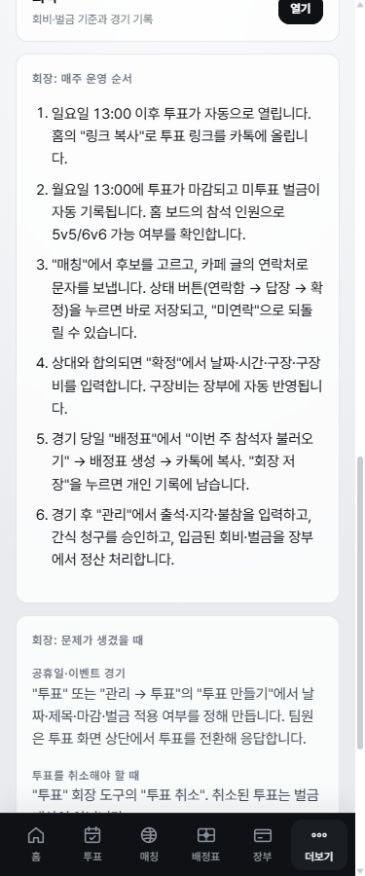
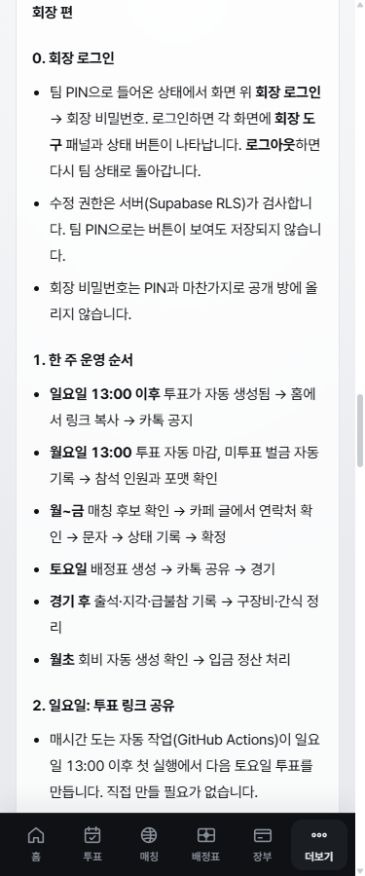
[014] 가이드 문서 렌더링과 마크다운 확장 반영

diff --git a/help.html b/help.html
@@ -5,76 +5,45 @@
   <meta name="viewport" content="width=device-width, initial-scale=1">
   <title>도움말 · FC EXICAN</title>
   <link rel="stylesheet" href="https://cdn.jsdelivr.net/gh/orioncactus/pretendard@v1.3.9/dist/web/variable/pretendardvariable-dynamic-subset.min.css">
-  <link rel="stylesheet" href="styles.css?v=20261016d">
+  <link rel="stylesheet" href="styles.css?v=20261016e">
 </head>
 <body class="rollout-page">
   <h1>도움말</h1>
 
   <main class="help-page page-grid">
-    <section class="card" aria-labelledby="help-start-title">
-      <h2 id="help-start-title">처음 한 번만</h2>
-      <ol>
-        <li>회장에게 받은 팀 PIN을 입력합니다. 한 번 입력하면 이 기기에서는 다시 묻지 않습니다.</li>
-        <li>투표 화면에서 내 이름을 선택합니다. 이름은 이 기기에 저장되며, 잘못 골랐으면 "변경"을 누릅니다.</li>
-        <li>카카오톡 안에서 열어도 되지만, 홈 화면에 추가해 두면 더 편합니다(브라우저 메뉴 → 홈 화면에 추가).</li>
-      </ol>
-    </section>
-
-    <section class="card" aria-labelledby="help-week-title">
-      <h2 id="help-week-title">매주 할 일(팀원)</h2>
-      <ol>
-        <li>일요일 오후 투표가 열리면 "투표"에서 참석 또는 불참을 누릅니다. 마감은 월요일 13:00이고, 마감 전에는 바꿀 수 있습니다.</li>
-        <li>마감까지 투표하지 않으면 회칙에 따라 벌금 5,000원이 장부에 자동으로 기록됩니다.</li>
-        <li>"매칭"에서 이번 주 후보를 보고 마음에 드는 곳에 추천(엄지)을 누릅니다. 확정된 매치는 홈 보드에 표시됩니다.</li>
-        <li>경기 당일 배정표는 "배정표"에서 확인하거나 회장이 카톡으로 보내 줍니다.</li>
-        <li>간식을 대신 샀다면 "장부 → 간식 청구"에 금액과 내용을 올립니다. 회장이 승인하면 장부에 반영됩니다.</li>
-        <li>내 회비·벌금·납부 현황은 "더보기 → 내 현황"에서 봅니다. 미납이 있으면 숫자 옆에 점이 켜집니다.</li>
-      </ol>
-    </section>
-
-    <nav class="rows page-wide" aria-labelledby="help-screens-title">
-      <h2 id="help-screens-title" class="row">화면 안내</h2>
-      <a class="row" href="index.html"><span class="row-main"><span class="row-label">홈</span><span class="row-sub">이번 주 D-day, 투표·매치 상태, 확정 매치 한눈에</span></span><span class="row-end"><span class="row-action">열기</span></span></a>
-      <a class="row" href="vote.html"><span class="row-main"><span class="row-label">투표</span><span class="row-sub">이번 주 참석/불참, 특별 매치 투표 전환</span></span><span class="row-end"><span class="row-action">열기</span></span></a>
-      <a class="row" href="matches.html"><span class="row-main"><span class="row-label">매칭</span><span class="row-sub">모두의풋살 카페에서 모은 토요일 오전 후보와 추천</span></span><span class="row-end"><span class="row-action">열기</span></span></a>
-      <a class="row" href="rotation.html"><span class="row-main"><span class="row-label">배정표</span><span class="row-sub">참석자로 키퍼·휴식 자동 배정, 카톡 복사</span></span><span class="row-end"><span class="row-action">열기</span></span></a>
-      <a class="row" href="ledger.html"><span class="row-main"><span class="row-label">장부</span><span class="row-sub">팀 잔액, 이번 달 회비·벌금, 간식 청구</span></span><span class="row-end"><span class="row-action">열기</span></span></a>
-      <a class="row" href="member.html"><span class="row-main"><span class="row-label">내 현황</span><span class="row-sub">내 납부·벌금·참석률·키퍼 기록</span></span><span class="row-end"><span class="row-action">열기</span></span></a>
-      <a class="row" href="rules.html"><span class="row-main"><span class="row-label">회칙</span><span class="row-sub">회비·벌금 기준과 경기 기록</span></span><span class="row-end"><span class="row-action">열기</span></span></a>
+    <nav class="rows page-wide" aria-label="바로가기">
+      <a class="row" href="#팀원-편"><span class="row-main"><span class="row-label">팀원 편</span><span class="row-sub">처음 설정, 투표, 추천, 간식 청구, 내 현황</span></span><span class="row-end"><span class="row-action">이동</span></span></a>
+      <a class="row" href="#회장-편"><span class="row-main"><span class="row-label">회장 편</span><span class="row-sub">주간 운영, 매칭, 배정표, 출석·벌금, 정산</span></span><span class="row-end"><span class="row-action">이동</span></span></a>
     </nav>
 
-    <section class="card" aria-labelledby="help-president-title">
-      <h2 id="help-president-title">회장: 매주 운영 순서</h2>
-      <ol>
-        <li>일요일 13:00 이후 투표가 자동으로 열립니다. 홈의 "링크 복사"로 투표 링크를 카톡에 올립니다.</li>
-        <li>월요일 13:00에 투표가 마감되고 미투표 벌금이 자동 기록됩니다. 홈 보드의 참석 인원으로 5v5/6v6 가능 여부를 확인합니다.</li>
-        <li>"매칭"에서 후보를 고르고, 카페 글의 연락처로 문자를 보냅니다. 상태 버튼(연락함 → 답장 → 확정)을 누르면 바로 저장되고, "미연락"으로 되돌릴 수 있습니다.</li>
-        <li>상대와 합의되면 "확정"에서 날짜·시간·구장·구장비를 입력합니다. 구장비는 장부에 자동 반영됩니다.</li>
-        <li>경기 당일 "배정표"에서 "이번 주 참석자 불러오기" → 배정표 생성 → 카톡에 복사. "회장 저장"을 누르면 개인 기록에 남습니다.</li>
-        <li>경기 후 "관리"에서 출석·지각·불참을 입력하고, 간식 청구를 승인하고, 입금된 회비·벌금을 장부에서 정산 처리합니다.</li>
-      </ol>
-    </section>
+    <article id="help-content" class="rules-document page-wide" aria-busy="true">
+      <p role="status">도움말을 불러오는 중입니다.</p>
+    </article>
 
-    <section class="card" aria-labelledby="help-trouble-title">
-      <h2 id="help-trouble-title">회장: 문제가 생겼을 때</h2>
-      <h3>공휴일·이벤트 경기</h3>
-      <p>"투표" 또는 "관리 → 투표"의 "투표 만들기"에서 날짜·제목·마감·벌금 적용 여부를 정해 만듭니다. 팀원은 투표 화면 상단에서 투표를 전환해 응답합니다.</p>
-      <h3>투표를 취소해야 할 때</h3>
-      <p>"투표" 회장 도구의 "투표 취소". 취소된 투표는 벌금 대상이 아닙니다.</p>
-      <h3>벌금·회비를 고쳐야 할 때</h3>
-      <p>"장부"에서 해당 행을 펼쳐 수정하거나 "관리"에서 조정 항목을 추가합니다. 자동 기록은 지우지 말고 조정 행으로 상쇄합니다.</p>
-      <h3>PIN이나 회장 비밀번호를 잊었을 때</h3>
-      <p>Supabase 대시보드 → Authentication → Users에서 해당 계정의 비밀번호를 재설정합니다(<code>README.md</code> 운영 절차 참고). 팀원에게는 새 PIN을 개인톡으로 전달합니다.</p>
-    </section>
-
-    <aside class="rules-notice page-wide">도움말에 없는 문제는 회장에게 알려 주세요. 회장은 README의 운영 절차를 참고합니다.</aside>
+    <aside class="rules-notice page-wide">도움말에 없는 문제는 회장에게 개인톡으로</aside>
   </main>
 
   <script src="js/config.js"></script>
   <script src="js/ui.js"></script>
+  <script src="js/markdown-lite.js"></script>
   <script>
-    document.addEventListener("DOMContentLoaded", () => {
+    document.addEventListener("DOMContentLoaded", async () => {
       renderNav("help");
+      const content = document.getElementById("help-content");
+      try {
+        const response = await fetch("docs/guide.md");
+        if (!response.ok) throw new Error("도움말을 불러오지 못했습니다.");
+        content.innerHTML = renderMarkdownLite(await response.text());
+        content.querySelector("h1")?.remove();
+        content.querySelectorAll("h2").forEach(heading => {
+          heading.id = heading.textContent.trim().replace(/\s+/g, "-");
+          if (encodeURIComponent(heading.id) === location.hash.slice(1)) heading.scrollIntoView();
+        });
+      } catch (error) {
+        content.innerHTML = "<p role=\"alert\">도움말을 불러오지 못했습니다. 잠시 후 새로고침하거나 <a href=\"docs/guide.md\">도움말 원문</a>을 확인하세요.</p>";
+      } finally {
+        content.setAttribute("aria-busy", "false");
+      }
     });
   </script>
 </body>

diff --git a/test/markdown-lite.test.js b/test/markdown-lite.test.js
@@ -1,5 +1,8 @@
 const { describe, test } = require("node:test");
 const assert = require("node:assert/strict");
+const { readFileSync } = require("node:fs");
+const { join } = require("node:path");
+const { createHash } = require("node:crypto");
 const { renderMarkdownLite } = require("../js/markdown-lite.js");
 
 describe("renderMarkdownLite", () => {
@@ -50,6 +53,71 @@ describe("renderMarkdownLite", () => {
     assert.equal(
       renderMarkdownLite("- 배정표: rotation.html\n\n<rotation.html onclick=\"alert(1)\">"),
       "<ul><li>배정표: <a href=\"rotation.html\">rotation.html</a></li></ul><p>&lt;<a href=\"rotation.html\">rotation.html</a> onclick=&quot;alert(1)&quot;&gt;</p>"
+    );
+  });
+
+  test("###은 h3로, 네 개 이상의 #은 문단으로 유지한다", () => {
+    assert.equal(
+      renderMarkdownLite("### 처음 한 번만\n#### 지원하지 않는 제목\n##### 역시 문단"),
+      "<h3>처음 한 번만</h3><p>#### 지원하지 않는 제목 ##### 역시 문단</p>"
+    );
+  });
+
+  test("굵게는 한 줄에서만 닫고 짝이 없는 별표는 그대로 유지한다", () => {
+    assert.equal(
+      renderMarkdownLite("### **설정**\n**팀 PIN**과 **이름**\n\n**첫 줄\n다음 줄**\n\n**미완성"),
+      "<h3><strong>설정</strong></h3><p><strong>팀 PIN</strong>과 <strong>이름</strong></p><p>**첫 줄 다음 줄**</p><p>**미완성</p>"
+    );
+  });
+
+  test("http(s) 링크만 새 창으로 열고 상대 문서·앵커 링크는 같은 창으로 연다", () => {
+    assert.equal(
+      renderMarkdownLite("[외부](https://example.com/?a=1&b=2) [HTTP](http://example.com) [홈](index.html) [가이드](docs/guide.md) [회칙](../rules.html) [팀원](#팀원-편)"),
+      "<p><a href=\"https://example.com/?a=1&amp;b=2\" target=\"_blank\" rel=\"noopener\">외부</a> <a href=\"http://example.com\" target=\"_blank\" rel=\"noopener\">HTTP</a> <a href=\"index.html\">홈</a> <a href=\"docs/guide.md\">가이드</a> <a href=\"../rules.html\">회칙</a> <a href=\"#팀원-편\">팀원</a></p>"
+    );
+  });
+
+  test("허용하지 않는 URL은 확장자로 위장해도 링크로 만들지 않는다", () => {
+    for (const url of ["javascript:evil.html", "JaVaScRiPt:evil.md", "data:text/html,evil.md", "mailto:team@example.com", "//example.com/evil.html", "\\evil.html", "rules.pdf", "rules.html?demo=1"]) {
+      const markdown = `[링크](${url})`;
+      assert.equal(renderMarkdownLite(markdown), `<p>${markdown}</p>`);
+    }
+  });
+
+  test("굵게·링크를 결합해도 중첩 링크나 속성 안의 태그를 만들지 않는다", () => {
+    assert.equal(
+      renderMarkdownLite("[**rotation.html**](rotation.html) **[배정표](rotation.html)** [외부](https://example.com/rotation.html)"),
+      "<p><a href=\"rotation.html\"><strong>rotation.html</strong></a> <strong><a href=\"rotation.html\">배정표</a></strong> <a href=\"https://example.com/rotation.html\" target=\"_blank\" rel=\"noopener\">외부</a></p>"
+    );
+  });
+
+  test("새 인라인 문법도 HTML·따옴표·엔티티를 먼저 이스케이프한다", () => {
+    assert.equal(
+      renderMarkdownLite("**<img src=x onerror=\"evil\">** [<script>](https://example.com/\" onmouseover=\"evil) [위장](javascript&#58;evil.html)"),
+      "<p><strong>&lt;img src=x onerror=&quot;evil&quot;&gt;</strong> <a href=\"https://example.com/&quot; onmouseover=&quot;evil\" target=\"_blank\" rel=\"noopener\">&lt;script&gt;</a> <a href=\"javascript&amp;#58;evil.html\">위장</a></p>"
+    );
+  });
+
+  test("연속 번호 목록은 번호 값과 관계없이 하나의 ol로 묶고 블록마다 닫는다", () => {
+    assert.equal(
+      renderMarkdownLite("3. **첫 항목**\n9. [회칙](rules.html)\n\n5. 새 목록\n### 제목\n1. 제목 다음\n- 불릿\n2. 불릿 다음\n문단"),
+      "<ol><li><strong>첫 항목</strong></li><li><a href=\"rules.html\">회칙</a></li></ol><ol><li>새 목록</li></ol><h3>제목</h3><ol><li>제목 다음</li></ol><ul><li>불릿</li></ul><ol><li>불릿 다음</li></ol><p>문단</p>"
+    );
+  });
+
+  test("번호 목록은 중첩하지 않고 불릿의 기존 중첩 동작은 유지한다", () => {
+    assert.equal(
+      renderMarkdownLite("1. 첫 항목\n  2. 들여쓴 번호\n- 불릿\n  - 하위 불릿\n3. 마지막 번호"),
+      "<ol><li>첫 항목</li></ol><p>2. 들여쓴 번호</p><ul><li>불릿<ul><li>하위 불릿</li></ul></li></ul><ol><li>마지막 번호</li></ol>"
+    );
+  });
+
+  test("기존 docs/rules.md의 렌더 결과를 바꾸지 않는다", () => {
+    const markdown = readFileSync(join(__dirname, "../docs/rules.md"), "utf8");
+    // 확장 전 렌더러로 main 0995c3b의 회칙을 렌더링한 HTML 전체의 SHA-256.
+    assert.equal(
+      createHash("sha256").update(renderMarkdownLite(markdown)).digest("hex"),
[1 lines of base64/hex data omitted]
     );
   });
 });

diff --git a/js/markdown-lite.js b/js/markdown-lite.js
@@ -6,20 +6,37 @@ function renderMarkdownLite(markdown) {
   const html = [];
   const paragraph = [];
   const listIndents = [];
+  let orderedList = false;
   const lines = markdownEscapeHtml(markdown).replace(/\r\n?/g, "\n").split("\n");
 
-  function inline(text) {
-    return text.replace(/\brotation\.html\b/g, "<a href=\"rotation.html\">rotation.html</a>");
+  function inline(text, allowLinks = true) {
+    // 이스케이프된 원문을 토큰별로 변환해 링크 속성이나 이미 만든 태그를 다시 치환하지 않는다.
+    return text.replace(/\*\*([^\n]+?)\*\*|\[([^\]\n]+)\]\(([^)\n]+)\)|\brotation\.html\b/g, (match, bold, label, url) => {
+      if (bold !== undefined) return `<strong>${inline(bold, allowLinks)}</strong>`;
+      if (!allowLinks) return match;
+      if (url !== undefined) {
+        const external = /^https?:\/\//.test(url);
+        const relative = /^#/.test(url) || /^(?![a-z][a-z\d+.-]*:)(?!\/\/)[^\\\s]*\.(?:html|md)$/i.test(url);
+        if (!external && !relative) return match;
+        const attributes = external ? " target=\"_blank\" rel=\"noopener\"" : "";
+        return `<a href="${url}"${attributes}>${inline(label, false)}</a>`;
+      }
+      return "<a href=\"rotation.html\">rotation.html</a>";
+    });
   }
 
   function flushParagraph() {
     if (paragraph.length) {
-      html.push(`<p>${inline(paragraph.join(" "))}</p>`);
+      html.push(`<p>${paragraph.map(line => inline(line)).join(" ")}</p>`);
       paragraph.length = 0;
     }
   }
 
   function closeLists(depth = 0) {
+    if (orderedList) {
+      html.push("</li></ol>");
+      orderedList = false;
+    }
     while (listIndents.length > depth) {
       html.push("</li></ul>");
       listIndents.pop();
@@ -33,7 +50,7 @@ function renderMarkdownLite(markdown) {
       continue;
     }
 
-    const heading = /^(#{1,2})\s+(.+)$/.exec(line);
+    const heading = /^(#{1,3})\s+(.+)$/.exec(line);
     if (heading) {
       flushParagraph();
       closeLists();
@@ -41,6 +58,21 @@ function renderMarkdownLite(markdown) {
       html.push(`<h${level}>${inline(heading[2])}</h${level}>`);
       continue;
     }
+
+    const numbered = /^\d+\.\s+(.+)$/.exec(line);
+    if (numbered) {
+      flushParagraph();
+      if (orderedList) {
+        html.push("</li><li>");
+      } else {
+        closeLists();
+        html.push("<ol><li>");
+        orderedList = true;
+      }
+      html.push(inline(numbered[1]));
+      continue;
+    }
+    if (orderedList) closeLists();
 
     const bullet = /^(\s*)-\s+(.+)$/.exec(line);
     if (bullet) {

diff --git a/styles.css b/styles.css
@@ -705,7 +705,8 @@ tbody th { font-weight: 600; }
 .matches-page > .match-filters { top: 0; }
 
 /* 014: 공개 도움말과 팀 PIN 모달 안내 링크. */
-.help-page ol { padding-left: 20px; display: grid; gap: 8px; }
-.help-page h3 { margin-top: 16px; }
-.help-page > .page-wide { grid-column: 1 / -1; }
+.help-page .rules-document ol { margin: 8px 0; padding-left: 20px; }
+.help-page .rules-document ol > li + li { margin-top: 6px; }
+.help-page .rules-document h3 { margin-top: 20px; font-size: var(--fs-body); font-weight: 700; }
+.help-page > .page-wide { grid-column: 1 / -1; grid-row: auto; }
 .modal-help { display: block; margin-top: 12px; font-size: var(--fs-label); color: var(--ink-3); text-align: center; }
